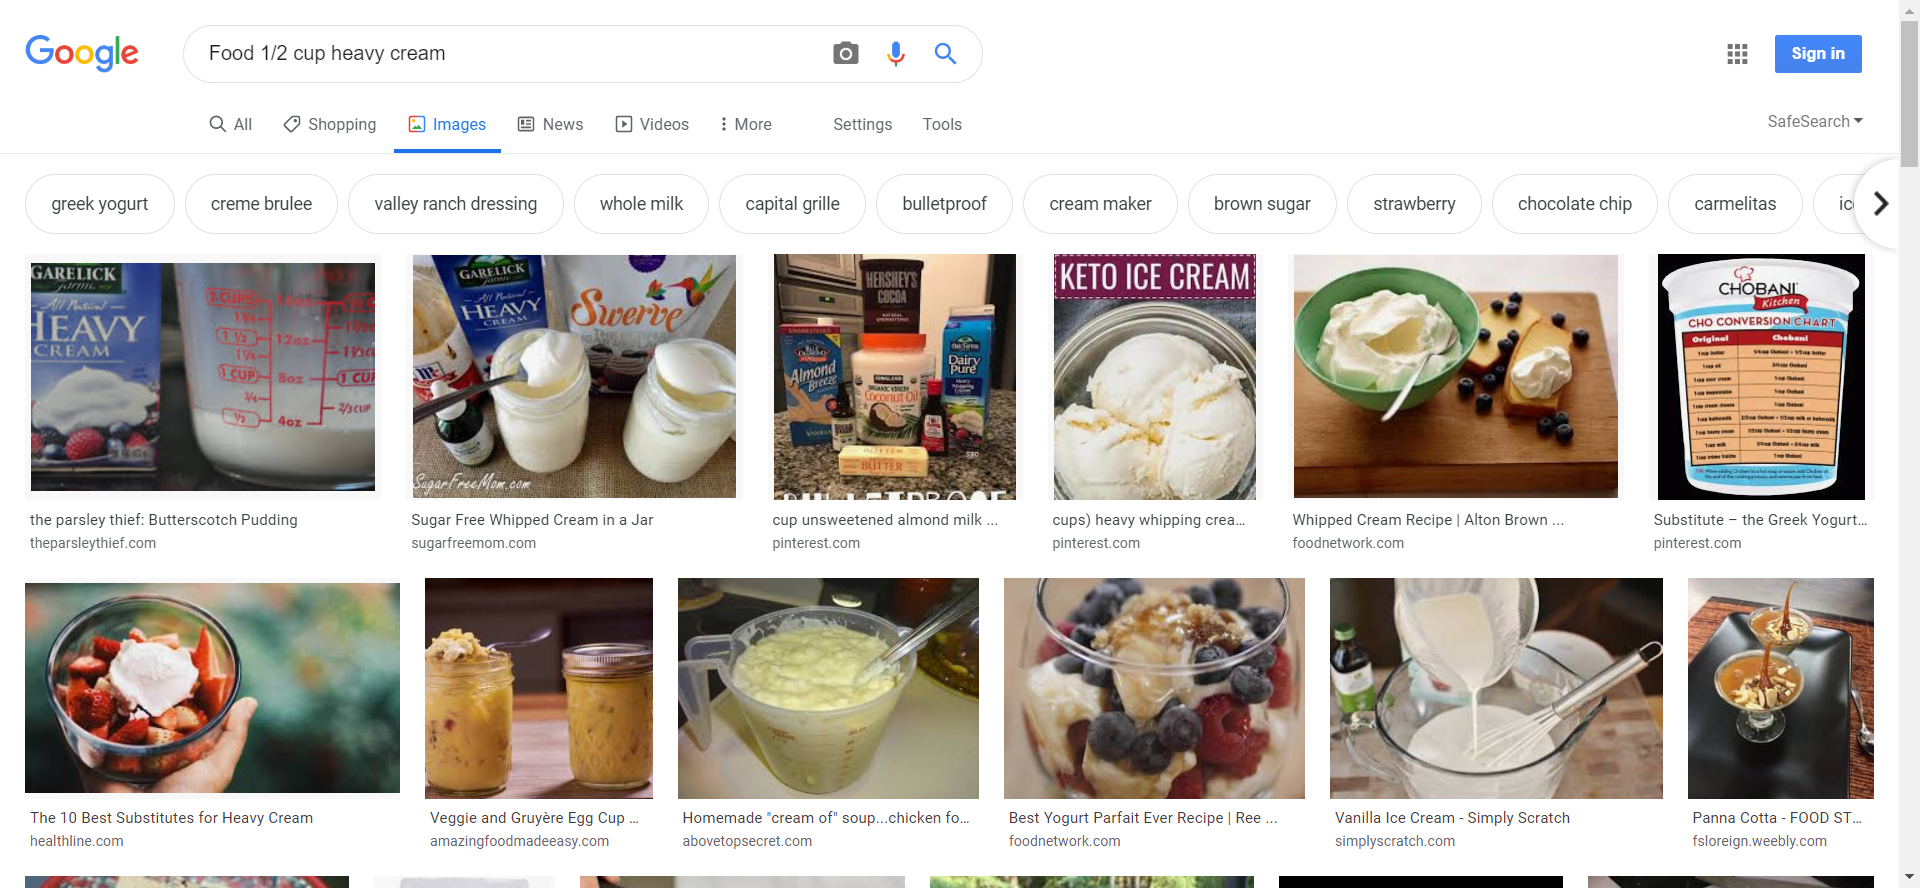
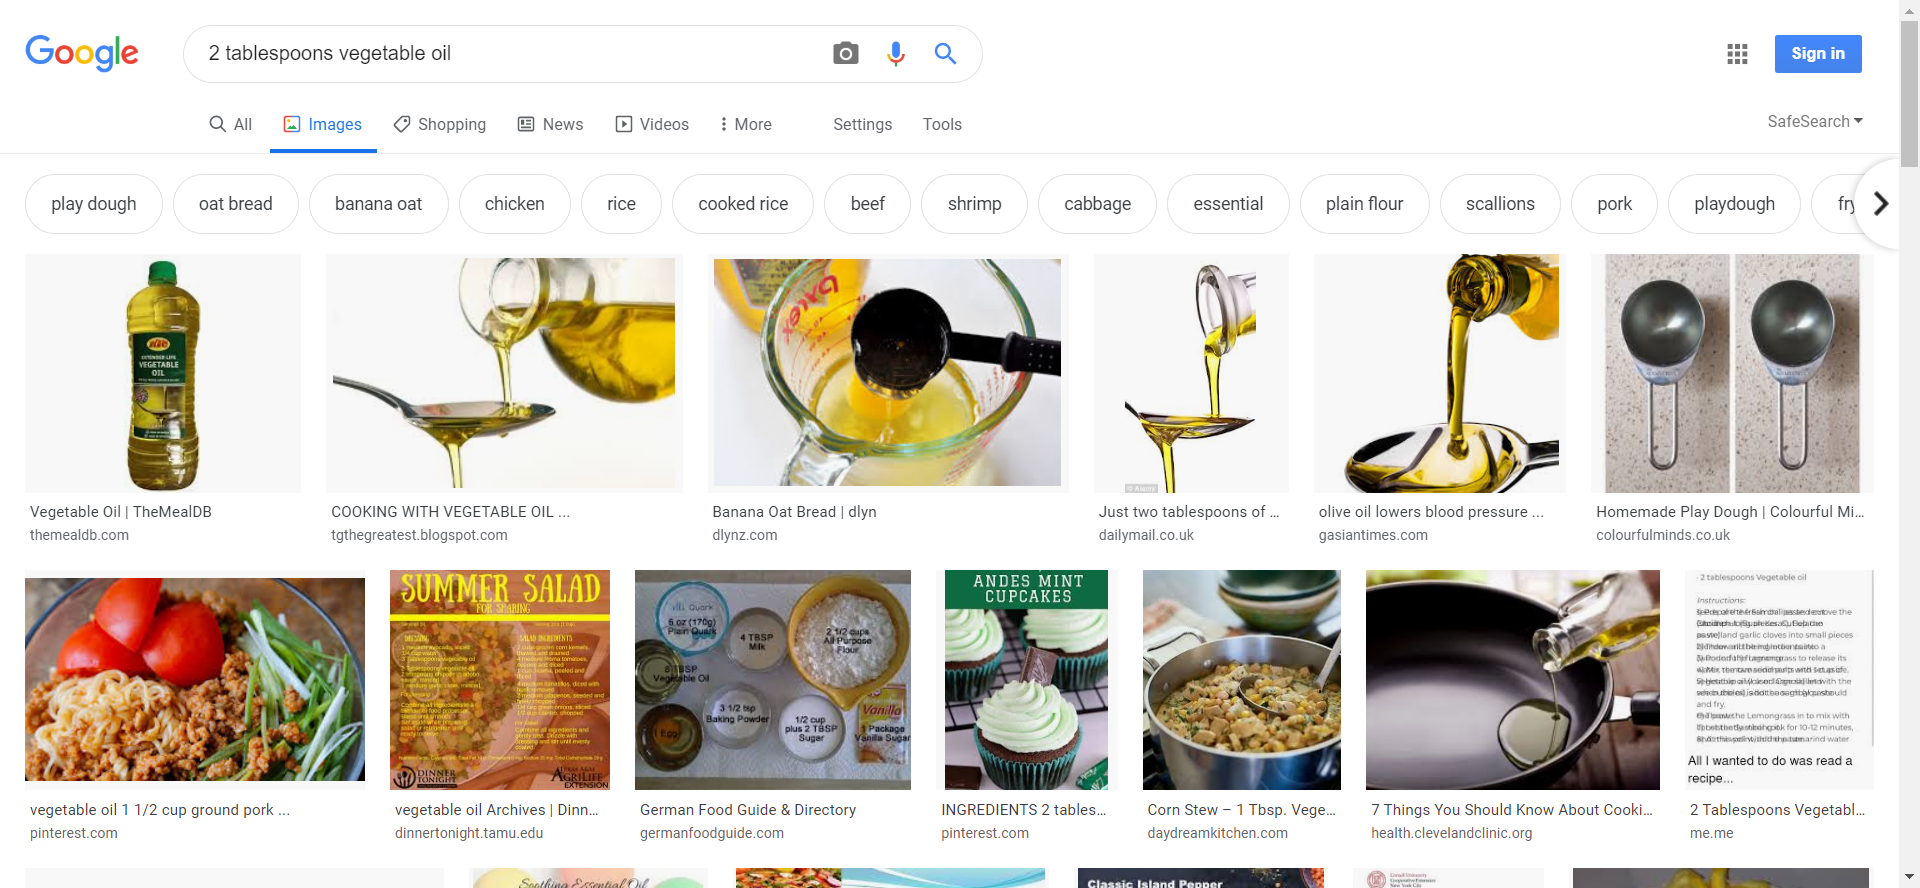
update

diff --git a/testAssets/imageTestAsset.js b/testAssets/imageTestAsset.js
@@ -1,1 +1,1 @@
-module.exports = ["1 15-ounce can crushed tomatoes","1/2 cup heavy cream","1 cup frozen peas","Basmati rice, for serving","Chopped fresh cilantro, for topping","2 pounds skinless, boneless chicken thighs, cut into 1-inch cubes","Kosher salt and freshly ground pepper","4 cloves garlic, finely grated","1 2-inch piece ginger, peeled and finely grated","1 jalapeno pepper, seeded and finely diced","1 tablespoon paprika","2 teaspoons ground coriander "]
+module.exports = ["2 cups chilled mashed potatoes (see Note)","2 tablespoons vegetable oil","2 tablespoons unsalted butter","1/2 cup all-purpose flour, for dredging","1 1/2 teaspoons kosher salt","1/4 teaspoon freshly ground black pepper "]

diff --git a/tests/foodNetworkGetDinner.js b/tests/foodNetworkGetDinner.js
@@ -24,6 +24,7 @@ module.exports = {
         })
 
         Food.api.openNewWindow()
+        
         Food.api.windowHandles(function (result) {
             newWindow = result.value[1]
             Food.api.switchWindow(newWindow)
